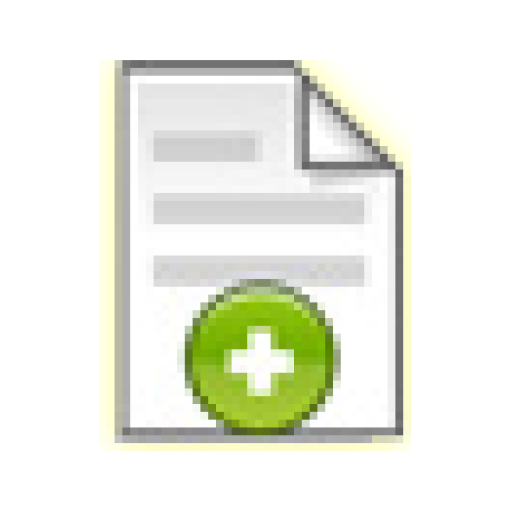
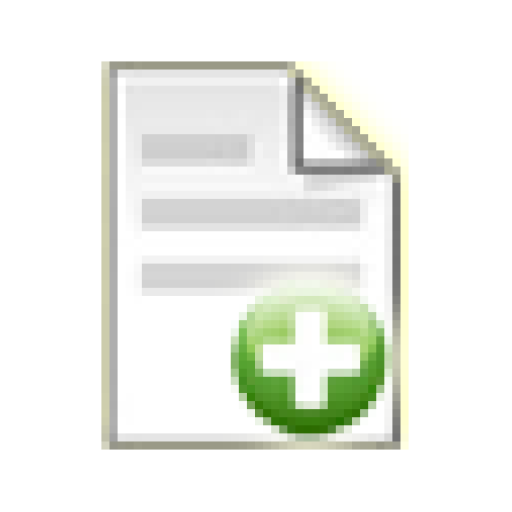
Modif des icones ajout entré relevé à sa position

diff --git a/Smart/src/fr/umlv/lastproject/smart/utils/SmartConstants.java b/Smart/src/fr/umlv/lastproject/smart/utils/SmartConstants.java
@@ -25,17 +25,18 @@ public final class SmartConstants {
 	public static final int CREATE_MISSION = 0;
 	public static final int CREATE_FORM = 1;
 	public static final int POINT_SURVEY = 2;
-	public static final int LINE_SURVEY = 3;
-	public static final int POLYGON_SURVEY = 4;
-	public static final int GPS_TRACK = 5;
-	public static final int IMPORT_KML = 6;
-	public static final int IMPORT_GEOTIFF = 7;
-	public static final int IMPORT_SHAPE = 8;
-	public static final int IMPORT_WMS = 9;
-	public static final int EXPORT = 10;
-	public static final int MEASURE = 11;
-	public static final int EXPORT_FORM = 12;
-	public static final int DELETE_MISSION = 13;
+	public static final int POINT_SURVEY_POSITION = 3;
+	public static final int LINE_SURVEY = 4;
+	public static final int POLYGON_SURVEY = 5;
+	public static final int GPS_TRACK = 6;
+	public static final int IMPORT_KML = 7;
+	public static final int IMPORT_GEOTIFF = 8;
+	public static final int IMPORT_SHAPE = 9;
+	public static final int IMPORT_WMS = 10;
+	public static final int EXPORT = 11;
+	public static final int MEASURE = 12;
+	public static final int EXPORT_FORM = 13;
+	public static final int DELETE_MISSION = 14;
 
 	public static final int GPS_REFRESH_TIME = 5000;
 	public static final int GPS_REFRESH_DISTANCE = 10;
@@ -64,10 +65,12 @@ public final class SmartConstants {
 	// Icons array for functionalities list
 	public static int[] icons = { R.drawable.startmission,
 			R.drawable.createform, R.drawable.pointsurvey,
-			R.drawable.linesurvey, R.drawable.polygonsurvey,
-			R.drawable.startgpstrack, R.drawable.smart, R.drawable.basket,
-			R.drawable.smart, R.drawable.basket, R.drawable.exportmission,
-			R.drawable.measure, R.drawable.exportform, R.drawable.deletemission };
+			R.drawable.pointsurvey_distance, R.drawable.linesurvey,
+			R.drawable.polygonsurvey, R.drawable.startgpstrack,
+			R.drawable.importvector, R.drawable.importraster,
+			R.drawable.importvector, R.drawable.importwms,
+			R.drawable.exportmission, R.drawable.measure,
+			R.drawable.exportform, R.drawable.deletemission };
 
 	private SmartConstants() {
 	}

diff --git a/Smart/src/fr/umlv/lastproject/smart/MenuActivity.java b/Smart/src/fr/umlv/lastproject/smart/MenuActivity.java
@@ -653,6 +653,7 @@ public class MenuActivity extends Activity {
 			break;
 
 		case SmartConstants.GPS_TRACK:
+			final AlertTrackDialog trackDialog = new AlertTrackDialog(this);
 			if (!gps.isEnabled(locationManager)) {
 				final AlertGPSTrackDialog gpsTrackDialog = new AlertGPSTrackDialog(
 						this);
@@ -660,7 +661,7 @@ public class MenuActivity extends Activity {
 				return;
 			}
 			if (gpsTrack == null) {
-				final AlertTrackDialog trackDialog = new AlertTrackDialog(this);
+
 				trackDialog.show();
 				break;
 
@@ -668,9 +669,10 @@ public class MenuActivity extends Activity {
 				try {
 					gpsTrack.stopTrack();
 					gpsTrack = null;
-					trackStarted = false;
+					trackStarted = trackDialog.isTrackStarted();
 				} catch (IOException e) {
 					gpsTrack = null;
+
 					Toast.makeText(this, R.string.track_error,
 							Toast.LENGTH_LONG).show();
 					trackStarted = false;

diff --git a/Smart/src/fr/umlv/lastproject/smart/dialog/AlertTrackDialog.java b/Smart/src/fr/umlv/lastproject/smart/dialog/AlertTrackDialog.java
@@ -59,6 +59,7 @@ public class AlertTrackDialog extends AlertDialog.Builder {
 						if (oName == null) {
 							Toast.makeText(menu, R.string.track_name_missing,
 									Toast.LENGTH_LONG).show();
+							trackStarted = false;
 							return;
 						}
 						final String name = oName.toString();
@@ -66,7 +67,7 @@ public class AlertTrackDialog extends AlertDialog.Builder {
 						if (oParam == null) {
 							Toast.makeText(menu, R.string.track_param_missing,
 									Toast.LENGTH_LONG).show();
-
+							trackStarted = false;
 							return;
 						}
 						try {
@@ -79,6 +80,7 @@ public class AlertTrackDialog extends AlertDialog.Builder {
 						} catch (NumberFormatException e) {
 							Toast.makeText(menu, R.string.track_param_false,
 									Toast.LENGTH_LONG).show();
+							trackStarted = false;
 							return;
 						}
 

diff --git a/Smart/src/fr/umlv/lastproject/smart/HomeActivity.java b/Smart/src/fr/umlv/lastproject/smart/HomeActivity.java
@@ -2,6 +2,7 @@ package fr.umlv.lastproject.smart;
 
 import java.util.ArrayList;
 import java.util.List;
+
 import android.app.Activity;
 import android.content.Intent;
 import android.os.Bundle;
@@ -151,7 +152,7 @@ public class HomeActivity extends Activity {
 		setResult(RESULT_CANCELED, intentReturn);
 		finish();
 	}
-	
+
 	@Override
 	protected void onPause() {
 		super.onPause();
